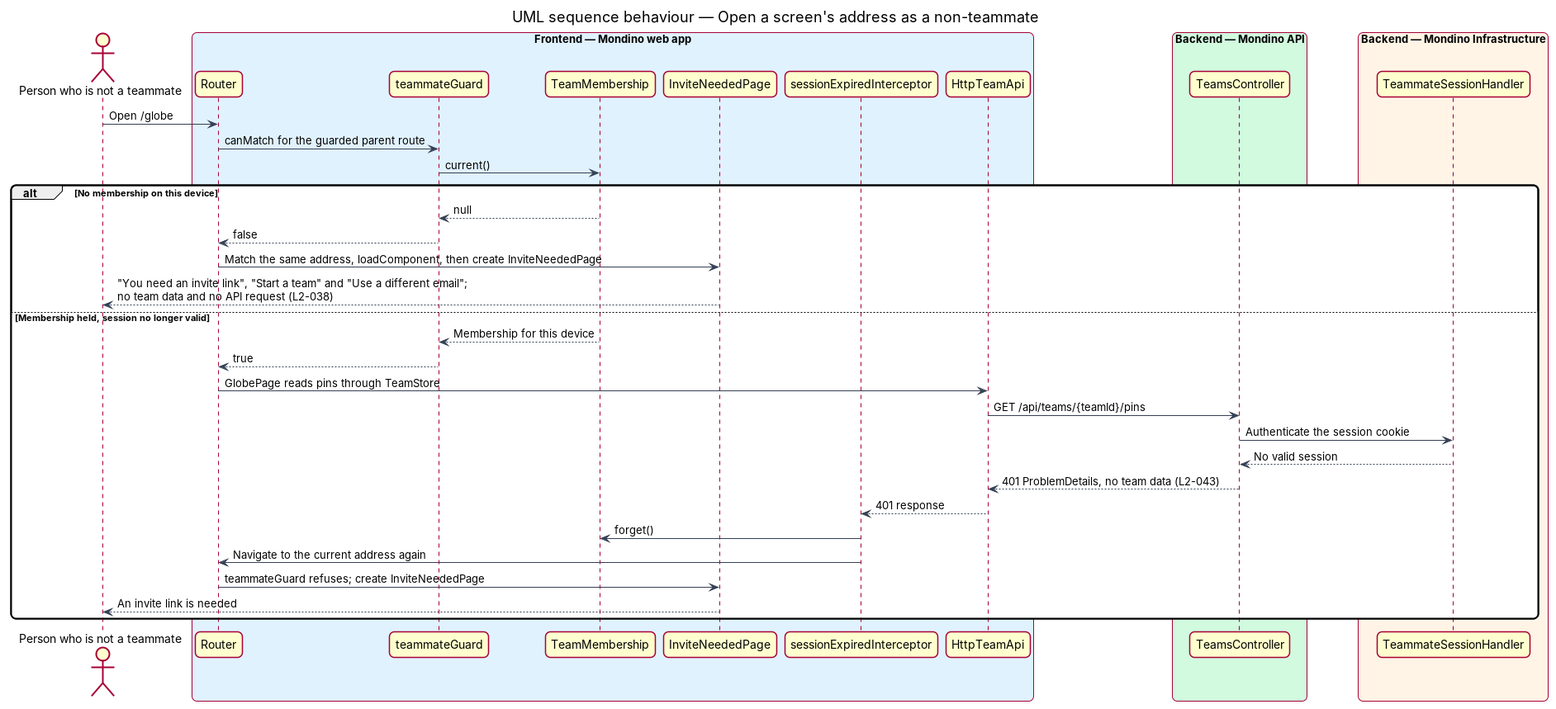
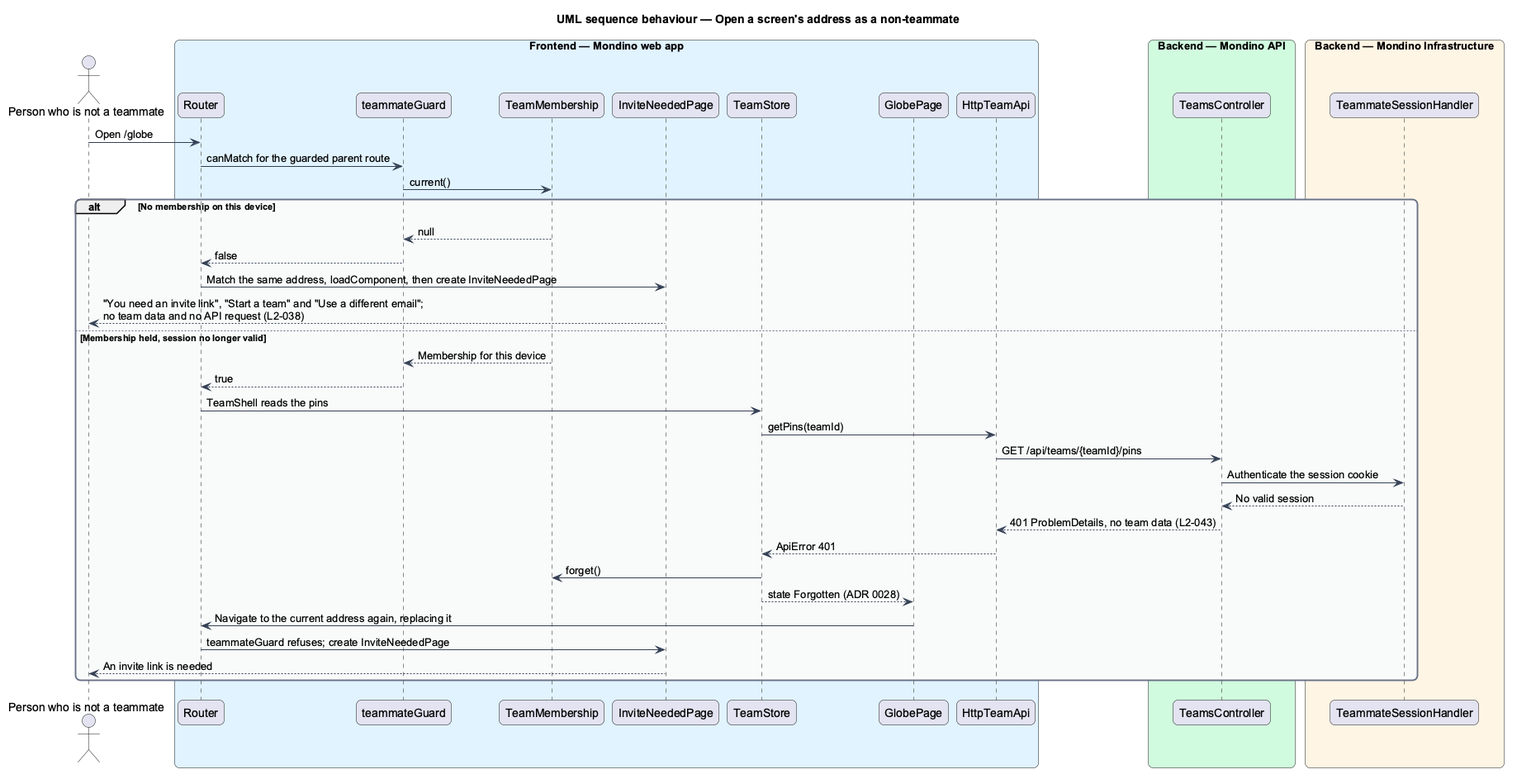
Bring the breakpoints and an ended session on Profile & Settings in line with the mocks
L2-037 criteria 2 and 4 and the design system's pages say 640 px and 1024 px where the CSS the mocks
render through breaks (ADR 0027); the design's sessionExpiredInterceptor, never built, gives way to
the stores that decide on a 401 (ADR 0028).

diff --git a/docs/design-system/foundations/layout.html b/docs/design-system/foundations/layout.html
@@ -92,7 +92,7 @@
 </section>
 
 <section class="ds-section" id="breakpoints"><h2><a href="#breakpoints">Breakpoints</a></h2>
-<div class="ds-table-wrap"><table class="ds-table"><thead><tr><th scope="col">Width</th><th scope="col">Token</th><th scope="col">What changes</th></tr></thead><tbody><tr><td>under 576 px</td><td>base</td><td>One column. The header shows the mark without the wordmark. The heading is above the globe and the panel under it. Dialogs are sheets from the bottom.</td></tr><tr><td>576 px</td><td><code>--layout-breakpoint-sm</code></td><td>Wordmark in the header. Heading and legend lie over the globe’s corners. Country and postal code share a row. Dialogs are centred. A large team’s search sits beside its filter.</td></tr><tr><td>768 px</td><td><code>--layout-breakpoint-md</code></td><td>Team is a table with all its columns. “Invite teammate” shows its words; under 768 px it is an icon alone. A large team’s column headings show above its first city.</td></tr><tr><td>992 px</td><td><code>--layout-breakpoint-lg</code></td><td>The panel sits to the right of the globe; the form of Join, Sign In and Create Team beside the globe; the pin card beside the settings.</td></tr><tr><td>1200 px</td><td><code>--layout-breakpoint-xl</code></td><td>Text columns stay capped and centred; the globe keeps growing.</td></tr></tbody></table></div><p>A media query cannot read a custom property, so the values are repeated in <code>components.css</code> as <code>36rem</code>, <code>48rem</code>, <code>62rem</code> and <code>75rem</code>. Queries are <code>min-width</code>, in rem.</p>
+<div class="ds-table-wrap"><table class="ds-table"><thead><tr><th scope="col">Width</th><th scope="col">Token</th><th scope="col">What changes</th></tr></thead><tbody><tr><td>under 576 px</td><td>base</td><td>One column. The header shows the mark without the wordmark. The heading is above the globe and the panel under it. Dialogs are sheets from the bottom.</td></tr><tr><td>576 px</td><td><code>--layout-breakpoint-sm</code></td><td>Wordmark in the header. Country and postal code share a row. Dialogs are centred. A large team’s search sits beside its filter.</td></tr><tr><td>640 px</td><td><code>--layout-breakpoint-stage</code></td><td>The Globe’s stage is 4:3, with its heading, legend and invite card over the globe’s corners; under it the still picture says why in a line under the globe.</td></tr><tr><td>768 px</td><td><code>--layout-breakpoint-md</code></td><td>Team is a table with all its columns. “Invite teammate” shows its words; under 768 px it is an icon alone. A large team’s column headings show above its first city.</td></tr><tr><td>992 px</td><td><code>--layout-breakpoint-lg</code></td><td>The form of Join, Sign In and Create Team beside the globe.</td></tr><tr><td>1024 px</td><td><code>--layout-breakpoint-wide</code></td><td>The panel sits to the right of the globe; the pin card beside the settings.</td></tr><tr><td>1200 px</td><td><code>--layout-breakpoint-xl</code></td><td>Text columns stay capped and centred; the globe keeps growing.</td></tr></tbody></table></div><p>A media query cannot read a custom property, so the values are repeated in <code>components.css</code> as <code>36rem</code>, <code>40rem</code>, <code>48rem</code>, <code>62rem</code> and <code>64rem</code>, and in the app as the Sass module <code>breakpoints</code>; at 1200 px no query is needed, as the containers’ maximum widths cap the text. Queries are <code>min-width</code>, in rem.</p>
 </section>
 
 <section class="ds-section" id="grid"><h2><a href="#grid">Grid</a></h2>
@@ -104,11 +104,11 @@
 </section>
 
 <section class="ds-section" id="usage"><h2><a href="#usage">Usage</a></h2>
-<ul><li>The header is <code>--layout-header-height</code> tall at every width. Under 416 px its gaps and padding tighten, and again under 360 px, so the tabs, the invite button and the avatar fit 320 px; these two steps belong to the header alone and are not breakpoints of the grid.</li><li>From 992 px the Globe screen is exactly the height of the window: the globe stays in view while the panel scrolls.</li><li>Use <code>100dvh</code>, not <code>100vh</code>, so a phone’s browser bars do not clip the screen.</li><li>Nothing is cut off and nothing overlaps at 320, 375, 576, 768, 992, 1200 and 1920 px.</li></ul>
+<ul><li>The header is <code>--layout-header-height</code> tall at every width. Under 416 px its gaps and padding tighten, and again under 360 px, so the tabs, the invite button and the avatar fit 320 px; these two steps belong to the header alone and are not breakpoints of the grid.</li><li>From 1024 px the Globe screen is exactly the height of the window: the globe stays in view while the panel scrolls.</li><li>Use <code>100dvh</code>, not <code>100vh</code>, so a phone’s browser bars do not clip the screen.</li><li>Nothing is cut off and nothing overlaps at 320, 375, 576, 768, 992, 1200 and 1920 px.</li></ul>
 </section>
 
 <section class="ds-section" id="tokens"><h2><a href="#tokens">Tokens</a></h2>
-<div class="ds-table-wrap"><table class="ds-table"><thead><tr><th scope="col">Token</th><th scope="col">Value</th><th scope="col">Use</th></tr></thead><tbody><tr><td><code>--layout-breakpoint-sm</code></td><td><span data-token="--layout-breakpoint-sm"></span></td><td>576px</td></tr><tr><td><code>--layout-breakpoint-md</code></td><td><span data-token="--layout-breakpoint-md"></span></td><td>768px</td></tr><tr><td><code>--layout-breakpoint-lg</code></td><td><span data-token="--layout-breakpoint-lg"></span></td><td>992px</td></tr><tr><td><code>--layout-breakpoint-xl</code></td><td><span data-token="--layout-breakpoint-xl"></span></td><td>1200px</td></tr><tr><td><code>--layout-columns</code></td><td><span data-token="--layout-columns"></span></td><td></td></tr><tr><td><code>--layout-gutter</code></td><td><span data-token="--layout-gutter"></span></td><td></td></tr><tr><td><code>--layout-margin</code></td><td><span data-token="--layout-margin"></span></td><td></td></tr><tr><td><code>--layout-container-max</code></td><td><span data-token="--layout-container-max"></span></td><td>Team</td></tr><tr><td><code>--layout-container-settings</code></td><td><span data-token="--layout-container-settings"></span></td><td>Profile & Settings</td></tr><tr><td><code>--layout-container-reading</code></td><td><span data-token="--layout-container-reading"></span></td><td>Moments</td></tr><tr><td><code>--layout-container-message</code></td><td><span data-token="--layout-container-message"></span></td><td>a page that says one thing</td></tr><tr><td><code>--layout-notice-art</code></td><td><span data-token="--layout-notice-art"></span></td><td>the small globe on a page that says one thing</td></tr><tr><td><code>--layout-search-width</code></td><td><span data-token="--layout-search-width"></span></td><td>the search field above a large team</td></tr><tr><td><code>--layout-measure</code></td><td><span data-token="--layout-measure"></span></td><td></td></tr><tr><td><code>--layout-header-height</code></td><td><span data-token="--layout-header-height"></span></td><td></td></tr><tr><td><code>--layout-sidebar-width</code></td><td><span data-token="--layout-sidebar-width"></span></td><td>the design system's own navigation; the product has no sidebar</td></tr><tr><td><code>--layout-panel-width</code></td><td><span data-token="--layout-panel-width"></span></td><td>the panel beside the globe</td></tr><tr><td><code>--layout-join-form-width</code></td><td><span data-token="--layout-join-form-width"></span></td><td>the form beside the globe</td></tr><tr><td><code>--layout-pin-card-width</code></td><td><span data-token="--layout-pin-card-width"></span></td><td>"Your pin" beside the settings</td></tr><tr><td><code>--layout-field-short</code></td><td><span data-token="--layout-field-short"></span></td><td>the postal code beside the country</td></tr><tr><td><code>--layout-overlay-max</code></td><td><span data-token="--layout-overlay-max"></span></td><td>a dialog, a toast, the save bar</td></tr><tr><td><code>--layout-invite-card-width</code></td><td><span data-token="--layout-invite-card-width"></span></td><td>the invite card over the globe</td></tr><tr><td><code>--layout-globe-phone-height</code></td><td><span data-token="--layout-globe-phone-height"></span></td><td></td></tr><tr><td><code>--layout-globe-tablet-height</code></td><td><span data-token="--layout-globe-tablet-height"></span></td><td></td></tr><tr><td><code>--layout-globe-card-height</code></td><td><span data-token="--layout-globe-card-height"></span></td><td>---------- Semantic: shape -------------------------------------------</td></tr></tbody></table></div>
+<div class="ds-table-wrap"><table class="ds-table"><thead><tr><th scope="col">Token</th><th scope="col">Value</th><th scope="col">Use</th></tr></thead><tbody><tr><td><code>--layout-breakpoint-sm</code></td><td><span data-token="--layout-breakpoint-sm"></span></td><td>576px</td></tr><tr><td><code>--layout-breakpoint-stage</code></td><td><span data-token="--layout-breakpoint-stage"></span></td><td>640px</td></tr><tr><td><code>--layout-breakpoint-md</code></td><td><span data-token="--layout-breakpoint-md"></span></td><td>768px</td></tr><tr><td><code>--layout-breakpoint-lg</code></td><td><span data-token="--layout-breakpoint-lg"></span></td><td>992px</td></tr><tr><td><code>--layout-breakpoint-wide</code></td><td><span data-token="--layout-breakpoint-wide"></span></td><td>1024px</td></tr><tr><td><code>--layout-breakpoint-xl</code></td><td><span data-token="--layout-breakpoint-xl"></span></td><td>1200px</td></tr><tr><td><code>--layout-columns</code></td><td><span data-token="--layout-columns"></span></td><td></td></tr><tr><td><code>--layout-gutter</code></td><td><span data-token="--layout-gutter"></span></td><td></td></tr><tr><td><code>--layout-margin</code></td><td><span data-token="--layout-margin"></span></td><td></td></tr><tr><td><code>--layout-container-max</code></td><td><span data-token="--layout-container-max"></span></td><td>Team</td></tr><tr><td><code>--layout-container-settings</code></td><td><span data-token="--layout-container-settings"></span></td><td>Profile & Settings</td></tr><tr><td><code>--layout-container-reading</code></td><td><span data-token="--layout-container-reading"></span></td><td>Moments</td></tr><tr><td><code>--layout-container-message</code></td><td><span data-token="--layout-container-message"></span></td><td>a page that says one thing</td></tr><tr><td><code>--layout-notice-art</code></td><td><span data-token="--layout-notice-art"></span></td><td>the small globe on a page that says one thing</td></tr><tr><td><code>--layout-search-width</code></td><td><span data-token="--layout-search-width"></span></td><td>the search field above a large team</td></tr><tr><td><code>--layout-measure</code></td><td><span data-token="--layout-measure"></span></td><td></td></tr><tr><td><code>--layout-header-height</code></td><td><span data-token="--layout-header-height"></span></td><td></td></tr><tr><td><code>--layout-sidebar-width</code></td><td><span data-token="--layout-sidebar-width"></span></td><td>the design system's own navigation; the product has no sidebar</td></tr><tr><td><code>--layout-panel-width</code></td><td><span data-token="--layout-panel-width"></span></td><td>the panel beside the globe</td></tr><tr><td><code>--layout-join-form-width</code></td><td><span data-token="--layout-join-form-width"></span></td><td>the form beside the globe</td></tr><tr><td><code>--layout-pin-card-width</code></td><td><span data-token="--layout-pin-card-width"></span></td><td>"Your pin" beside the settings</td></tr><tr><td><code>--layout-field-short</code></td><td><span data-token="--layout-field-short"></span></td><td>the postal code beside the country</td></tr><tr><td><code>--layout-overlay-max</code></td><td><span data-token="--layout-overlay-max"></span></td><td>a dialog, a toast, the save bar</td></tr><tr><td><code>--layout-invite-card-width</code></td><td><span data-token="--layout-invite-card-width"></span></td><td>the invite card over the globe</td></tr><tr><td><code>--layout-globe-phone-height</code></td><td><span data-token="--layout-globe-phone-height"></span></td><td></td></tr><tr><td><code>--layout-globe-tablet-height</code></td><td><span data-token="--layout-globe-tablet-height"></span></td><td></td></tr><tr><td><code>--layout-globe-card-height</code></td><td><span data-token="--layout-globe-card-height"></span></td><td>---------- Semantic: shape -------------------------------------------</td></tr></tbody></table></div>
 </section>
     <footer class="ds-footer"><span>Mondino design system · extracted from <a href="../../mocks/index.html">docs/mocks</a></span><a href="#top">Back to top</a></footer>
   </main>

diff --git a/docs/design-system/foundations/responsive.html b/docs/design-system/foundations/responsive.html
@@ -92,7 +92,7 @@
 </section>
 
 <section class="ds-section" id="components"><h2><a href="#components">By component</a></h2>
-<div class="ds-table-wrap"><table class="ds-table"><thead><tr><th scope="col">Component</th><th scope="col">Phone</th><th scope="col">From 576 px</th><th scope="col">From 768 px</th><th scope="col">From 992 px</th></tr></thead><tbody><tr><td><a href="../components/app-header.html">App header</a></td><td>Mark, tabs, “Invite teammate” as an icon, avatar; tighter under 416 px and again under 360 px</td><td>Wordmark joins the mark</td><td>“Invite teammate” shows its words</td><td>—</td></tr><tr><td>Auth (Join, Sign In, Create Team)</td><td>Form, then the globe under it</td><td>Wider padding; a larger title; a taller globe</td><td>—</td><td>Form beside the globe</td></tr><tr><td>Notice page</td><td>Wordmark, small globe, title, line, actions, centred</td><td>A larger title</td><td>—</td><td>—</td></tr><tr><td>Globe</td><td>A square the width of the screen; compact pins under 400 px; a still picture says so in a line under it</td><td>4:3 stage, heading and legend over it</td><td>—</td><td>Fills the height beside the panel</td></tr><tr><td>Panel</td><td>Under the globe</td><td>—</td><td>—</td><td>To the right, scrolling on its own</td></tr><tr><td>Pin and group pin</td><td>Close pins merge into a group pin with a count, at every size</td><td>—</td><td>—</td><td>—</td></tr><tr><td>Pin label</td><td>Only the lifted one, under its pin</td><td>Beside each pin that stands alone, where the globe is 400 px or more</td><td>—</td><td>—</td></tr><tr><td>Day ribbon</td><td>Small markers; scale every six hours; two band labels. As a bar chart it scrolls sideways in its own box</td><td>Scale every three hours</td><td>Larger markers; all four band labels</td><td>—</td></tr><tr><td>Team table</td><td>Blocks: name and status, time with city and offset, moment</td><td>—</td><td>A table with six columns; a large team’s headings once, above its first city</td><td>A chevron ends each row</td></tr><tr><td>Team search</td><td>The full width, above the filter</td><td>Beside the filter</td><td>—</td><td>—</td></tr><tr><td>City section</td><td>A row with the city, its count and its local time; blocks when open</td><td>—</td><td>Rows on the shared columns when open</td><td>—</td></tr><tr><td>Moment row</td><td>Whose it is under the text</td><td>Whose it is at the right</td><td>—</td><td>—</td></tr><tr><td>Form field</td><td>One column; “Look up” under the fields</td><td>Country and postal code share a row, with “Look up” at its end on Profile &amp; Settings</td><td>—</td><td>—</td></tr><tr><td>Copy field</td><td>The full width of its container; the link ends in an ellipsis</td><td>—</td><td>—</td><td>—</td></tr><tr><td>Dialog</td><td>A sheet from the bottom, buttons stacked</td><td>Centred, buttons in a row</td><td>—</td><td>—</td></tr><tr><td>Card</td><td>Invite card under the globe; pin card above the settings; the card for a team of one stacks its button</td><td>Invite card over the globe’s corner; the card’s button at the right</td><td>—</td><td>Pin card sticky beside the settings</td></tr></tbody></table></div>
+<div class="ds-table-wrap"><table class="ds-table"><thead><tr><th scope="col">Component</th><th scope="col">Phone</th><th scope="col">From 576 px</th><th scope="col">From 768 px</th><th scope="col">From 992 px</th></tr></thead><tbody><tr><td><a href="../components/app-header.html">App header</a></td><td>Mark, tabs, “Invite teammate” as an icon, avatar; tighter under 416 px and again under 360 px</td><td>Wordmark joins the mark</td><td>“Invite teammate” shows its words</td><td>—</td></tr><tr><td>Auth (Join, Sign In, Create Team)</td><td>Form, then the globe under it</td><td>Wider padding; a larger title; a taller globe</td><td>—</td><td>Form beside the globe</td></tr><tr><td>Notice page</td><td>Wordmark, small globe, title, line, actions, centred</td><td>A larger title</td><td>—</td><td>—</td></tr><tr><td>Globe</td><td>A square the width of the screen; compact pins under 400 px; a still picture says so in a line under it</td><td>From 640 px a 4:3 stage, heading and legend over it</td><td>—</td><td>From 1024 px fills the height beside the panel</td></tr><tr><td>Panel</td><td>Under the globe</td><td>—</td><td>—</td><td>From 1024 px to the right, scrolling on its own</td></tr><tr><td>Pin and group pin</td><td>Close pins merge into a group pin with a count, at every size</td><td>—</td><td>—</td><td>—</td></tr><tr><td>Pin label</td><td>Only the lifted one, under its pin</td><td>Beside each pin that stands alone, where the globe is 400 px or more</td><td>—</td><td>—</td></tr><tr><td>Day ribbon</td><td>Small markers; scale every six hours; two band labels. Under 45 rem, markers or bars, it scrolls sideways in its own box</td><td>Scale every three hours</td><td>Larger markers; all four band labels</td><td>—</td></tr><tr><td>Team table</td><td>Blocks: name and status, time with city and offset, moment</td><td>—</td><td>A table with six columns; a large team’s headings once, above its first city</td><td>A chevron ends each row</td></tr><tr><td>Team search</td><td>The full width, above the filter</td><td>Beside the filter</td><td>—</td><td>—</td></tr><tr><td>City section</td><td>A row with the city, its count and its local time; blocks when open</td><td>—</td><td>Rows on the shared columns when open</td><td>—</td></tr><tr><td>Moment row</td><td>Whose it is under the text</td><td>Whose it is at the right</td><td>—</td><td>—</td></tr><tr><td>Form field</td><td>One column; “Look up” under the fields</td><td>Country and postal code share a row, with “Look up” at its end on Profile &amp; Settings</td><td>—</td><td>—</td></tr><tr><td>Copy field</td><td>The full width of its container; the link ends in an ellipsis</td><td>—</td><td>—</td><td>—</td></tr><tr><td>Dialog</td><td>A sheet from the bottom, buttons stacked</td><td>Centred, buttons in a row</td><td>—</td><td>—</td></tr><tr><td>Card</td><td>Invite card under the globe; pin card above the settings; the card for a team of one stacks its button</td><td>From 640 px the invite card over the globe’s corner; the card’s button at the right</td><td>—</td><td>From 1024 px the pin card sticky beside the settings</td></tr></tbody></table></div>
 </section>
 
 <section class="ds-section" id="touch"><h2><a href="#touch">Touch and pointer</a></h2>

diff --git a/docs/design-system/components/globe.html b/docs/design-system/components/globe.html
@@ -163,7 +163,7 @@
 </section>
 
 <section class="ds-section" id="responsive"><h2><a href="#responsive">Responsive behaviour</a></h2>
-<p>Phone: a square the width of the screen, under the heading and above the panel. From 640 px the stage is 4:3 with the heading and legend laid over its corners. From 992 px it fills the height beside the panel, and from 1200 px it keeps growing while text keeps its measure. A vertical drag that the globe cannot follow scrolls the page.</p><p>The legend shows from 640 px. Where the globe is a still picture, a phone has no legend to say so, and a line under the globe (<code>.globe-screen__still</code>) says it instead; it is hidden from 640 px, where the legend carries the same words.</p><div class="ds-example"><div class="ds-example__canvas ds-example__canvas--stack ds-example__canvas--canvas"><p class="globe-screen__still" style="margin: 0; display: block;">Still view — 3D isn’t available in this browser. Pins still open.</p></div><div class="ds-example__caption"><span>The line under a still picture, on a phone</span></div><details class="ds-example__code"><summary>HTML</summary><pre><code>&lt;p class=&quot;globe-screen__still&quot; style=&quot;margin: 0; display: block;&quot;&gt;Still view — 3D isn’t available in this browser. Pins still open.&lt;/p&gt;</code></pre></details></div>
+<p>Phone: a square the width of the screen, under the heading and above the panel. From 640 px the stage is 4:3 with the heading and legend laid over its corners. From 1024 px it fills the height beside the panel, and from 1200 px it keeps growing while text keeps its measure. A vertical drag that the globe cannot follow scrolls the page.</p><p>The legend shows from 640 px. Where the globe is a still picture, a phone has no legend to say so, and a line under the globe (<code>.globe-screen__still</code>) says it instead; it is hidden from 640 px, where the legend carries the same words.</p><div class="ds-example"><div class="ds-example__canvas ds-example__canvas--stack ds-example__canvas--canvas"><p class="globe-screen__still" style="margin: 0; display: block;">Still view — 3D isn’t available in this browser. Pins still open.</p></div><div class="ds-example__caption"><span>The line under a still picture, on a phone</span></div><details class="ds-example__code"><summary>HTML</summary><pre><code>&lt;p class=&quot;globe-screen__still&quot; style=&quot;margin: 0; display: block;&quot;&gt;Still view — 3D isn’t available in this browser. Pins still open.&lt;/p&gt;</code></pre></details></div>
 </section>
 
 <section class="ds-section" id="theming"><h2><a href="#theming">Theming</a></h2>

diff --git a/docs/design-system/components/day-ribbon.html b/docs/design-system/components/day-ribbon.html
@@ -122,7 +122,7 @@
 </section>
 
 <section class="ds-section" id="responsive"><h2><a href="#responsive">Responsive behaviour</a></h2>
-<p>With markers, the ribbon always fits the width; it never scrolls sideways. Under 768 px markers are 26 px and the “Morning” and “Evening” labels are dropped, keeping “Night” and “Working hours”. Under 576 px the scale shows every six hours. Markers within about two and a half hours of each other stack in rows, and the track grows to hold them.</p><p>As a bar chart the track is <code>--ribbon-density-height</code> tall plus room for the band labels. Forty-eight bars need room: the chart keeps a minimum width of 720 px inside its own scrolling group (<code>.day-ribbon__scroll</code>), so on a phone the chart scrolls sideways and the page does not. The summary line above it never scrolls.</p>
+<p>Markers or bars, the ribbon keeps a width of at least 45 rem inside its own focusable box: narrower, that box scrolls sideways and the page does not. Under 768 px markers are 26 px and the “Morning” and “Evening” labels are dropped, keeping “Night” and “Working hours”. Under 576 px the scale shows every six hours. Markers within about two and a half hours of each other stack in rows, and the track grows to hold them.</p><p>As a bar chart the track is <code>--ribbon-density-height</code> tall plus room for the band labels. Forty-eight bars need room: the chart keeps a minimum width of 720 px inside its own scrolling group (<code>.day-ribbon__scroll</code>), so on a phone the chart scrolls sideways and the page does not. The summary line above it never scrolls.</p>
 </section>
 
 <section class="ds-section" id="theming"><h2><a href="#theming">Theming</a></h2>

diff --git a/docs/design-system/components/card.html b/docs/design-system/components/card.html
@@ -107,7 +107,7 @@
 <section class="ds-section" id="states" data-na="A card is not a control. Its button has its own states."><h2><a href="#states">States</a></h2><p class="ds-na">A card is not a control. Its button has its own states.</p></section>
 
 <section class="ds-section" id="responsive"><h2><a href="#responsive">Responsive behaviour</a></h2>
-<p>The invite card is under the globe on a phone and 20 rem wide over the globe’s top right corner from 576 px. The pin card is above the settings under 992 px and stays beside them, sticky, from 992 px.</p>
+<p>The invite card is under the globe on a phone and 20 rem wide over the globe’s top right corner from 640 px. The pin card is above the settings under 1024 px and stays beside them, sticky, from 1024 px.</p>
 </section>
 
 <section class="ds-section" id="theming"><h2><a href="#theming">Theming</a></h2>

diff --git a/docs/design-system/assets/components.css b/docs/design-system/assets/components.css
@@ -13,8 +13,9 @@
      36rem  576px  phone ends: wordmark, a dialog is a sheet below it
      40rem  640px  the Globe's stage: legend and heading over the globe, still line hidden
      48rem  768px  the Team table, "Invite teammate"
-     62rem  992px  panel beside the globe, form beside the globe
-     75rem  1200px text keeps its measure, the globe grows
+     62rem  992px  form beside the globe on Join, Sign In and Create Team
+     64rem  1024px panel beside the globe, the pin card beside the settings
+     75rem  1200px text keeps its measure (the containers' max-widths), the globe grows
    ========================================================================== */
 
 /* ---------- Component tokens: scoped to one component, always an alias ------ */

diff --git a/docs/design-system/components/person-panel.html b/docs/design-system/components/person-panel.html
@@ -256,7 +256,7 @@
 </section>
 
 <section class="ds-section" id="responsive"><h2><a href="#responsive">Responsive behaviour</a></h2>
-<p>Under 992 px the panel is under the globe in one scrolling column. From 992 px it is <code>--layout-panel-width</code> wide to the right of the globe and scrolls on its own while the globe stays in view.</p>
+<p>Under 1024 px the panel is under the globe in one scrolling column. From 1024 px it is <code>--layout-panel-width</code> wide to the right of the globe and scrolls on its own while the globe stays in view.</p>
 </section>
 
 <section class="ds-section" id="theming"><h2><a href="#theming">Theming</a></h2>

diff --git a/docs/design-system/tokens/tokens.css b/docs/design-system/tokens/tokens.css
@@ -307,8 +307,10 @@
      Under 36rem a phone, one column. 48rem the Team table. 62rem the panel
      beside the globe and the form beside it. 75rem text keeps its measure. */
   --layout-breakpoint-sm: 36rem;   /* 576px */
+  --layout-breakpoint-stage: 40rem; /* 640px: the Globe's stage */
   --layout-breakpoint-md: 48rem;   /* 768px */
   --layout-breakpoint-lg: 62rem;   /* 992px */
+  --layout-breakpoint-wide: 64rem; /* 1024px: the panel and the pin card beside */
   --layout-breakpoint-xl: 75rem;   /* 1200px */
 
   --layout-columns: 4;

diff --git a/docs/detailed-designs/platform/adapt-to-every-width/README.md b/docs/detailed-designs/platform/adapt-to-every-width/README.md
@@ -11,7 +11,7 @@ is opened directly.
 
 The terms used below:
 
-- **breakpoint** — viewport width at which a layout changes: 576 px, 768 px, 992 px and 1200 px
+- **breakpoint** — viewport width at which a layout changes: 576 px, 640 px, 768 px, 992 px, 1024 px and 1200 px (ADR 0027)
 - **shell** — what surrounds the four teammate screens: the header with its navigation, the refresh banner and the toast
 - **teammate screen** — one of Globe, Team, Moments and Profile & Settings, shown only to a teammate
 - **membership** — record on the device that it has joined a team: the team's id, the teammate's id and the team's name
@@ -73,10 +73,15 @@ team is made (`make-team`) and `SignInPage` once an emailed link is opened (`sig
 the team calls `forget()`. It holds no postal code, no email, no position and no session: the
 session is an `HttpOnly` cookie that scripts cannot read (L2-043).
 
-**`sessionExpiredInterceptor`** — `HttpInterceptorFn` bound in `app.config.ts`. When the
-`Mondino API` answers 401, it calls `TeamMembership.forget()` and navigates to the current
-address again, which now shows `InviteNeededPage`. A membership that outlives its session
-therefore leads to the same screen as no membership.
+**An ended session** (ADR 0028) — there is no interceptor: the clients call `fetch` (ADR 0005).
+Each store that speaks for the teammate decides on a 401 itself. `TeamStore` forgets the
+membership when the pins are refused with 401 or 404 and enters `Forgotten`; Globe, Team and
+Moments then navigate to their own address again, replacing it, which now shows
+`InviteNeededPage`. `ProfileStore` does the same when reading the profile, saving or leaving is
+refused with 401: it discards the draft first, so `unsavedChangesGuard` does not ask "Leave
+without saving?", clears `SETTINGS_STORE`, calls `TeamMembership.forget()` and navigates to
+`/profile` again; an open "Leave Northwind?" closes with the page. A membership that outlives its
+session therefore leads to the same screen as no membership.
 
 **`NoticePage`** (`mo-notice-page`, block `notice-page`) — presentation component in
 `components` for a page that says one thing: the mark and wordmark, a small still picture of
@@ -141,8 +146,10 @@ every width.
 
 **Layouts.** Each screen's layout is decided by CSS in that component's own stylesheet, written
 for one column first and extended with `min-width` media queries at the breakpoints. The
-breakpoints are Sass variables in the global foundations, since a CSS custom property cannot be
-read in a media query. No component reads the viewport width in TypeScript, and no template
+breakpoints are the Sass module `breakpoints` in `components` (`src/styles/_breakpoints.scss`,
+read with `@use 'breakpoints' as bp` through `stylePreprocessorOptions.includePaths`), holding the
+values of the `--layout-breakpoint-*` tokens, since a CSS custom property cannot be read in a
+media query (ADR 0027). A `max-width` query is the next breakpoint less `0.01rem`. No component reads the viewport width in TypeScript, and no template
 branches on it. One component instance therefore serves every width, and turning a phone from
 upright to sideways keeps the selected pin, any filter and anything typed (L2-037).
 
@@ -151,12 +158,13 @@ upright to sideways keeps the selected pin, any filter and anything typed (L2-03
 | Join | under 992 px: form above the globe, one column | 992 px: form beside the globe |
 | Sign In, Create Team (block `auth`, drawn by each page from one Sass partial, ADR 0011) | under 992 px: form above the globe, one column | 992 px: form beside the globe, each filling the height of the viewport |
 | Invite Needed, Left Team, Not Found (`NoticePage`) | one centred column at every width; the two actions stack on a phone | 576 px: wider side padding |
-| Globe | under 992 px: globe, then panel, one scrolling column; the heading is above the globe under 576 px and over its top corner from 576 px | 992 px: panel to the right of the globe, scrolling on its own |
+| Globe | under 1024 px: globe, then panel, one scrolling column; the globe is a square the width of the screen under 640 px, with the heading above it, and from 640 px a 4:3 stage with the heading over its top corner | 1024 px: panel to the right of the globe, scrolling on its own; the globe fills the window's height beside it |
 | Team | under 768 px: name, status, local time with city and offset, next moment | 768 px: `TeamTable` with all its columns |
-| Profile & Settings | under 992 px: the pin's card above the settings | 992 px: the pin's card beside the settings, kept in view |
+| Profile & Settings | under 1024 px: the pin's card above the settings | 1024 px: the pin's card beside the settings, kept in view |
 
-From 1200 px, text columns are capped in width and centred, and the Globe screen's globe grows
-to fill the space. The Team screen under 768 px hides columns with CSS; it does not render a
+From 1200 px, text columns are capped in width and centred by their containers' maximum widths
+(`--layout-container-*`), with no query of their own, and the Globe screen's globe, which has no
+maximum width, grows to fill the space. The Team screen under 768 px hides columns with CSS; it does not render a
 second component. The invite dialog and the two other dialogs are centred from 576 px and are
 a sheet from the bottom under it. Each layout uses flexible tracks and `min-width: 0` on its children so that
 nothing overflows sideways from 320 px upward.
@@ -192,16 +200,17 @@ session only.
 
 `app.routes.ts` runs `teammateGuard` to match a teammate screen and loads the screen's chunk.
 `TeamShell` provides `TeamStore` and renders `AppHeader` with the navigation links and
-"Invite teammate", the refresh banner and the toast around the four screens. `teammateGuard` and
-`sessionExpiredInterceptor` read or clear `TeamMembership`.
+"Invite teammate", the refresh banner and the toast around the four screens. `teammateGuard`
+reads `TeamMembership`, and `TeamStore` and `ProfileStore` clear it on a 401. Every stylesheet
+reads the `breakpoints` module.
 
 ![C4 component view for adapting to every width](diagrams/c4-component.png)
 
 ### Class structure
 
 `TeamShell` composes three `NavItem`s and renders `AppHeader`, which shows `Wordmark` and is
-styled by the breakpoints. `teammateGuard` and `sessionExpiredInterceptor` depend on `TeamMembership`,
-which holds one `Membership`.
+styled by the `breakpoints` module. `teammateGuard`, `TeamStore` and `ProfileStore` depend on
+`TeamMembership`, which holds one `Membership`.
 
 ![Class diagram for adapting to every width](diagrams/class-structure.png)
 
@@ -219,7 +228,7 @@ reads its pins with the session cookie and shows them in the layout for the curr
 With no membership on the device, `teammateGuard` refuses the match, the same address shows
 `InviteNeededPage`, with its ways on to Create Team and Sign In, and no request reaches the
 `Mondino API` (L2-038). With a membership whose session is no longer valid,
-the API answers 401 with no team data (L2-043), and `sessionExpiredInterceptor` forgets the
-membership and shows the same screen.
+the API answers 401 with no team data (L2-043), and `TeamStore` forgets the membership and the
+screen shows its own address again, which is then the same screen (ADR 0028).
 
 ![Sequence diagram for opening a screen's address as a non-teammate](diagrams/sequence-open-address-as-non-teammate.png)

diff --git a/docs/adr/0027-breakpoints-where-the-mocks-break.md b/docs/adr/0027-breakpoints-where-the-mocks-break.md
@@ -1,0 +1,58 @@
+# 0027: The layouts change where the mocks do, at breakpoints one Sass module names, and the Globe's globe fills its stage
+
+**Status:** Accepted (journey 27, Adapt to every width). Brings L2-037 criteria 2 and 4 and the
+design system's pages to the CSS the mocks render through.
+
+## Context
+
+L2-037 put the Globe's panel and Profile & Settings' pin card beside their screens from 992 px,
+and the Globe's heading over its corner from 576 px; so did the design system's layout,
+responsive, panel and card pages. The CSS the mocks render through
+(`docs/design-system/assets/components.css`) does it at `64rem` (1024 px) and `40rem` (640 px):
+the prototype's own widths. The code had followed the CSS, so a spec written from the
+requirement would have measured a layout no mock draws.
+
+The breakpoints were repeated as literal rem values in eighteen stylesheets (`36rem`, `40rem`,
+`48rem`, `62rem`, `64rem`, and `35.99rem`, `25.99rem` and `22.49rem` for the `max-width` side),
+and the design (`adapt-to-every-width`) named Sass variables that were never written. The tokens
+named four of the six widths.
+
+The Globe's globe had a maximum width of 40 rem since journey 4, so from 1200 px it stopped
+growing where L2-037 criterion 5 and the mock have it fill the space beside the panel.
+
+## Decision
+
+- **The mock's widths are the breakpoints.** 576 px (`sm`: the wordmark, a dialog in the
+  middle), 640 px (`stage`: the Globe's 4:3 stage with its heading, legend and invite card over
+  the globe), 768 px (`md`: the Team table, "Invite teammate" in words), 992 px (`lg`: the form
+  beside the globe on Join, Sign In and Create Team), 1024 px (`wide`: the panel beside the
+  globe, the pin card beside the settings). From 1200 px (`xl`) no query is needed: the
+  containers' maximum widths (`--layout-container-*`) keep the text's measure. The header alone
+  also tightens under 416 px and 360 px. L2-037 criteria 2 and 4 and the design system's pages
+  say 640 px and 1024 px, and `--layout-breakpoint-stage` and `--layout-breakpoint-wide` join the
+  tokens.
+- **One Sass module names them.** `frontend/projects/components/src/styles/_breakpoints.scss`
+  holds `$sm`, `$stage`, `$md`, `$lg`, `$wide`, `$xl`, `$header-tight` and `$header-tighter`, the
+  same values as the tokens (a media query cannot read a custom property). Every component's
+  stylesheet, in `components` and in `mondino`, reads it with `@use 'breakpoints' as bp`, found
+  through `stylePreprocessorOptions.includePaths` in `angular.json`. A `min-width` query is
+  `bp.$md`; a `max-width` one is `bp.$md - 0.01rem`, so the two sides never overlap. It emits no
+  CSS, and no component reads the width in TypeScript.
+- **The Globe's globe fills its stage, as the mock draws it.** Under 640 px it is a square the
+  width of the screen; from 640 px the stage is 4:3 and the globe fills its height; from 1024 px
+  the stage fills the window's height beside the panel. It has no maximum width, so it grows
+  from 1200 px while the text keeps its measure.
+
+## Consequences
+
+- A layout changes at one width in the design system, the mocks, the requirement and the code.
+  A new breakpoint is a token, a line in the module and a sentence in the layout page.
+- From 1024 px the globe is drawn at the window's height less the header: 1016 px on a
+  1920 × 1080 display. The canvas keeps ADR 0012's two detail steps (a pixel ratio up to 2, or 1
+  when frames are slow), so a large display costs more pixels, not more model.
+- Between 640 and 1023 px the globe is three quarters of the stage's width tall, as the mock
+  draws it, where it was a square up to 640 px.
+- Rejected: changing the CSS to 992 px to keep the requirement's number. The mocks are the
+  source of truth, and the prototype breaks at 1024 px.
+- Rejected: CSS custom media (`@custom-media`). Angular's build does not support it without a
+  PostCSS plugin, and Sass already reads a variable in a query.

diff --git a/docs/adr/0028-an-ended-session-on-profile.md b/docs/adr/0028-an-ended-session-on-profile.md
@@ -1,0 +1,45 @@
+# 0028: A store that is refused with 401 forgets the team, and its screen says an invite link is needed; there is no interceptor
+
+**Status:** Accepted (journey 27, Adapt to every width). Replaces the `sessionExpiredInterceptor`
+that `adapt-to-every-width` drew; answers what journeys 23 and 24 left on Profile & Settings.
+
+## Context
+
+`adapt-to-every-width` drew `sessionExpiredInterceptor`, an `HttpInterceptorFn` bound in
+`app.config.ts` that forgets the membership on any 401 and shows the same address again. The
+browser calls the backend with `fetch` (ADR 0005), so there is no `HttpClient` to intercept, and
+the interceptor was never built. Instead `TeamStore` forgets the team when the pins are refused
+with 401 or 404, and Globe, Team and Moments then navigate to their own address, which shows
+"You need an invite link" in place (L2-038 criterion 5).
+
+Profile & Settings did not: a save refused with 401 said "Couldn’t save." and offered "Try
+again", which cannot succeed; leaving refused with 401 showed the dialog's alert with "Try
+again"; and a read refused with 401 said the profile could not be loaded. Journey 23 asked
+whether "Leave without saving?" should be asked first.
+
+## Decision
+
+- **No interceptor.** Each store that speaks for the teammate decides on a 401 itself, as
+  `TeamStore` already does.
+- **`ProfileStore` treats a 401 on reading the profile, on saving and on leaving as an ended
+  session.** It discards the draft, clears `SETTINGS_STORE`, calls `TeamMembership.forget()` and
+  navigates to the address shown (`/profile`), replacing it in the history. `teammateGuard` no
+  longer matches, so the same address shows "You need an invite link", "Start a team" and "Use a
+  different email", as for anyone on no team.
+- **"Leave without saving?" is not asked.** With no session nothing can be saved, so the draft
+  is discarded before the navigation and `unsavedChangesGuard` lets the page go. An open "Leave
+  Northwind?" closes with the page (journey 24's lesson).
+- Any other failure is unchanged: the save bar's "Couldn’t save." with "Try again", the leave
+  dialog's alert with "Try again", and the read's error with "Try again". A 404 on a save or a
+  leave stays a failure of that action.
+
+## Consequences
+
+- An ended session leads to the same screen on all four teammate screens, whichever request
+  found it, and the teammate signs in again through `sign-in`.
+- What was typed and not saved is lost when the session has ended; it could not have been
+  saved, and keeping it would hold a postal code for a teammate the browser no longer knows.
+- The postal code lookup on Profile & Settings refused with 401 is still a failed lookup: the
+  read of the pins that the shell repeats every 15 minutes finds the ended session first.
+- Rejected: an interceptor around `fetch`. It would wrap a global the whole app shares, and a
+  read's owner would still have to decide what its screen shows.

diff --git a/docs/detailed-designs/profile/leave-team/README.md b/docs/detailed-designs/profile/leave-team/README.md
@@ -62,9 +62,10 @@ exist (journeys 6, 22 and 23); the parts below are added to them or are new.
   while the request is pending, so a second request is not sent. On success it discards the draft
   (`hasUnsavedChanges` is then false), clears `SETTINGS_STORE`, calls `TeamMembership.forget()`,
   and navigates to `/left` with the team's name in the navigation state, replacing `/profile` in
-  the history; leaving `/profile` destroys the page and with it the dialog. On failure, whatever the
-  answer (no answer, 5xx, 401 or 404), it leaves everything as it was and sets `leaveFailed`, and
-  the dialog says so and offers to try again.
+  the history; leaving `/profile` destroys the page and with it the dialog. On failure (no answer, 5xx
+  or 404) it leaves everything as it was and sets `leaveFailed`, and the dialog says so and
+  offers to try again. A 401 is an ended session: the draft is discarded, the membership
+  forgotten and `/profile` shows "You need an invite link" in place (ADR 0028).
 - **`LeftPage`** — lazy route `/left`, not behind `teammateGuard`, titled "You’ve left · Mondino".
   It renders `NoticePage` (`adapt-to-every-width`): the wordmark, a small globe, a title, one text
   and its actions, with no app header. The title reads "You’ve left Northwind" and the text "Your
@@ -157,7 +158,7 @@ join it.
 | Case | Status | `code` | What the screen shows |
 |------|--------|--------|-----------------------|
 | `teamId` is not the teammate's own team | 404 | `team_not_found` | The alert in `LeaveTeamDialog`, with "Try again" |
-| No session, or the teammate has already left | 401 | none | The alert in `LeaveTeamDialog`, with "Try again"; what an ended session does on Profile & Settings is journey 27's |
+| No session, or the teammate has already left | 401 | none | The dialog closes with the page: `ProfileStore` forgets the membership and `/profile` shows "You need an invite link" in place (ADR 0028) |
 | No antiforgery token, or another session's | 403 | `cross_site_request` | The alert in `LeaveTeamDialog`; nothing changes |
 | The backend cannot be reached, or answers 5xx | none or 5xx | none | The alert in `LeaveTeamDialog`, which stays open, with "Try again"; the pin stays |
 
